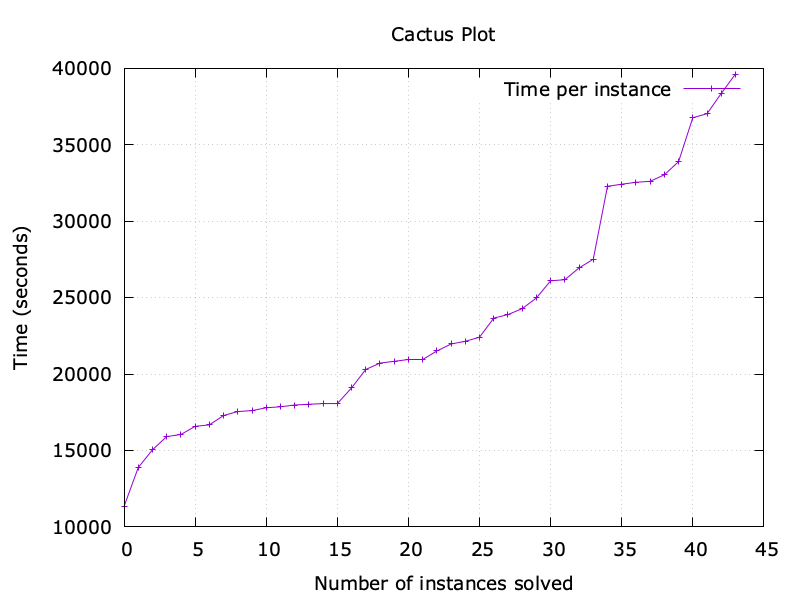
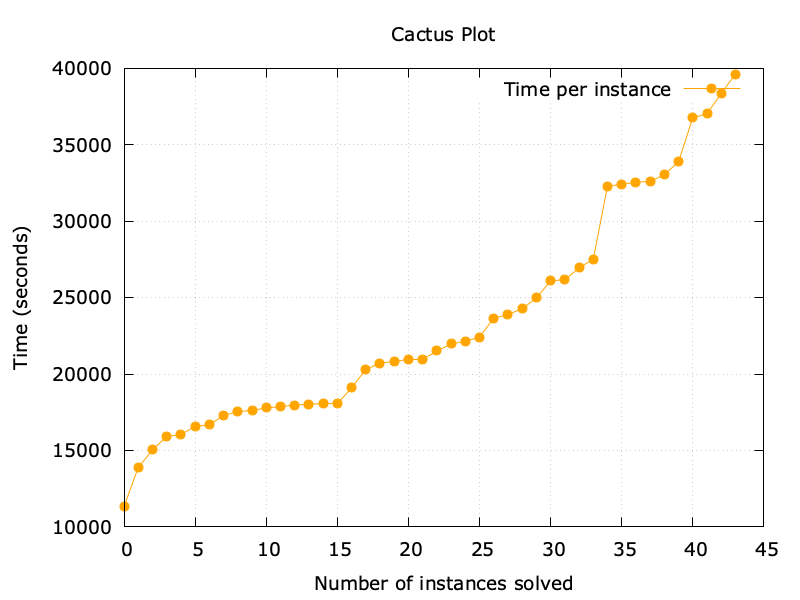
add the devcon picture, fix plots

diff --git a/_layouts/home.html b/_layouts/home.html
@@ -63,7 +63,7 @@ layout: base
 
     <div class="sidebar">
         <div class="photo">
-            <img src="{{ site.baseurl }}/assets/images/igor-ethcc2024.jpg" alt="Igor Konnov" style="width:100%;">
+            <img src="{{ site.baseurl }}/assets/images/igor-devcon24-small.png" alt="Igor Konnov" style="width:100%;">
         </div>
         
         <!-- introduce a space of 2em -->
